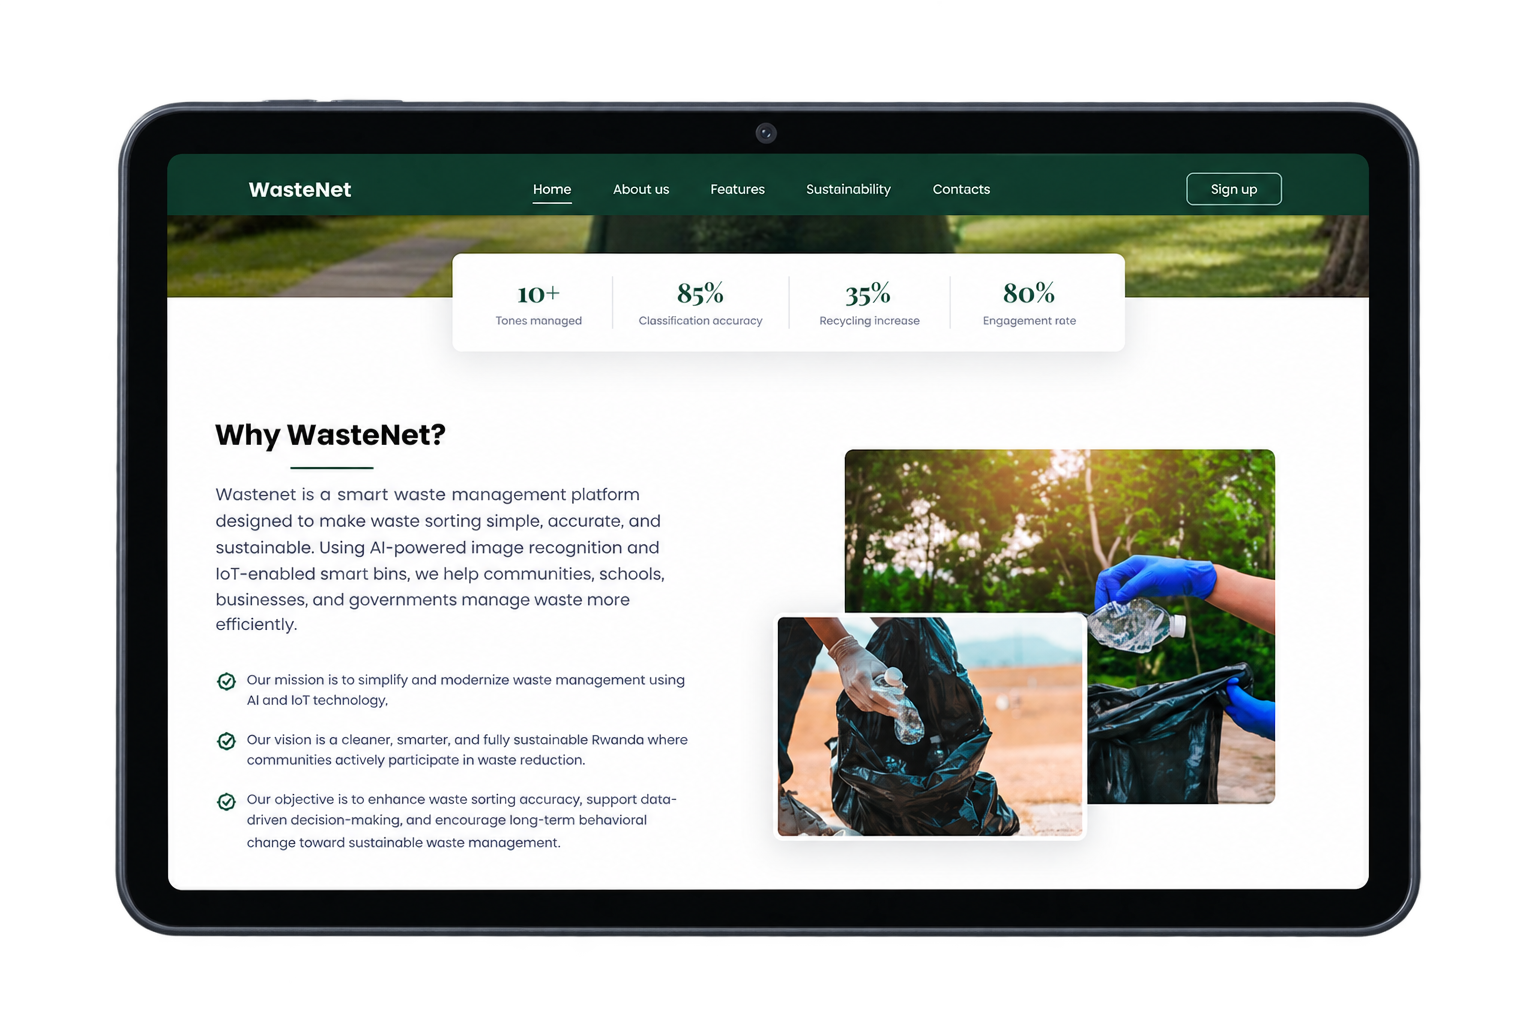
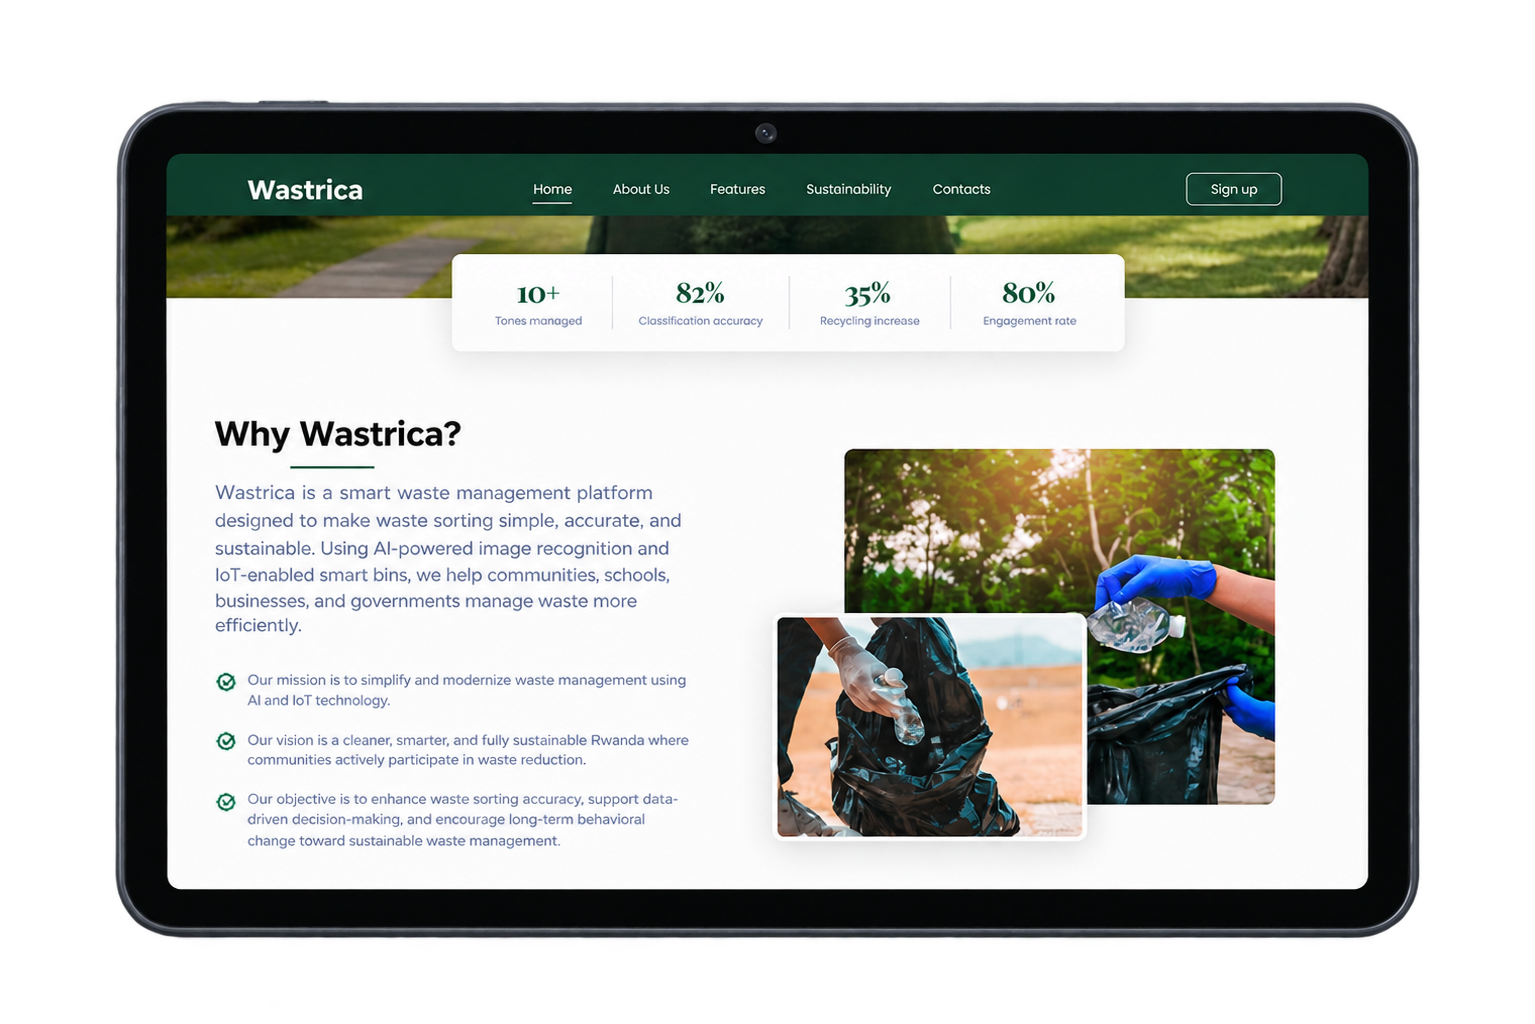
new changes

diff --git a/src/components/ProjectsSection.tsx b/src/components/ProjectsSection.tsx
@@ -96,7 +96,7 @@ const PROJECTS: Project[] = [
       "Built with role-based contribution workflows, elders and cultural custodians can submit content directly while moderators ensure quality and authenticity.",
     ],
     githubUrl: "#",
-    liveUrl: "#",
+    liveUrl: "https://umucocore.rw",
   },
   {
     id: "codebridge",
@@ -398,8 +398,9 @@ function ProjectRow({
             <motion.a
               className={styles.btn}
               href={project.githubUrl}
-              target="_blank"
+              target={project.githubUrl === "#" ? "_self" : "_blank"}
               rel="noreferrer noopener"
+              onClick={(e) => { if (project.githubUrl === "#") e.preventDefault(); }}
               initial={{ opacity: 0, y: 6 }}
               animate={contentInnerReveal ? { opacity: 1, y: 0 } : {}}
               transition={{ delay: 1.05, duration: 0.5 }}
@@ -410,12 +411,13 @@ function ProjectRow({
           {project.liveUrl && (
             <motion.a
               href={project.liveUrl}
-              target="_blank"
+              target={project.liveUrl === "#" ? "_self" : "_blank"}
               rel="noreferrer noopener"
               className={`${styles.btn} ${styles.btnPrimary}`}
               initial={{ opacity: 0, y: 6 }}
               animate={contentInnerReveal ? { opacity: 1, y: 0 } : {}}
               transition={{ delay: 1.12, duration: 0.5 }}
+              onClick={(e) => { if (project.liveUrl === "#") e.preventDefault(); }}
             >
               Live Demo <ExternalLink size={15} />
             </motion.a>
